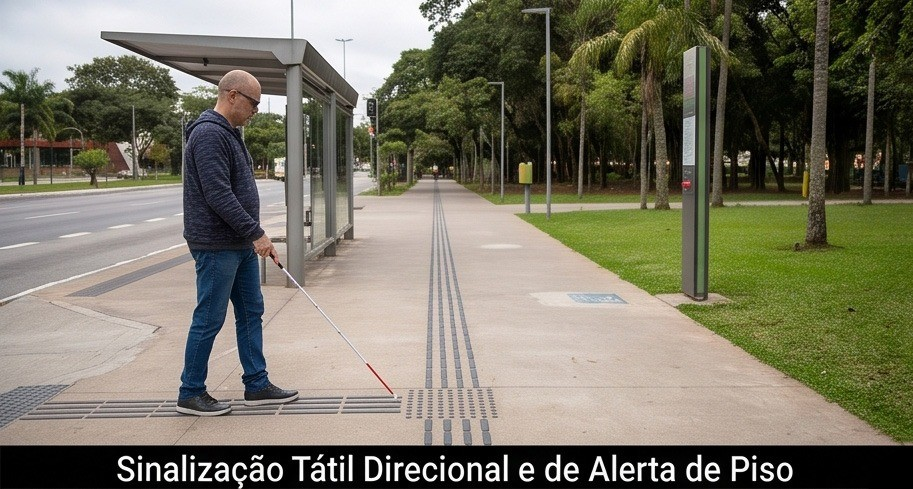
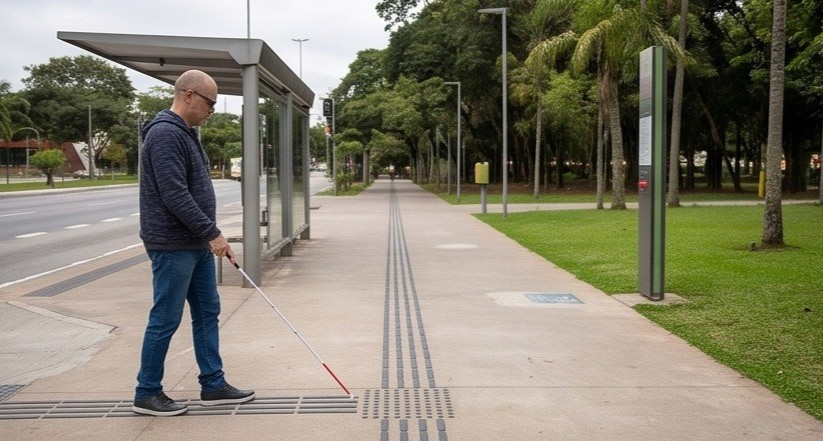
Alteração da section 02 da pagina Mobiliario Urbano de Sinalização acessível para Placas de sinalização e a incerção de um botão que direciona para o conteúdo de piso tátil na página de Sinalização

diff --git a/mobiliarios.html b/mobiliarios.html
@@ -264,7 +264,7 @@
                     <div class="mobiliario-imagem">
                         <img
                             src="assets/sinalizacao-acessivel.jpeg"
-                            alt="Placa direcional com informações em Braille para auxiliar na orientação de pessoas com deficiência visual."
+                            alt="Placa de sinalização acessível com informações direcionais e escrita em Braille."
                             loading="lazy"
                         >
                     </div>
@@ -273,43 +273,59 @@
 
                         <span class="mobiliario-numero">02</span>
 
-                        <h3>Sinalização acessível</h3>
+                        <h3>Placas de sinalização acessíveis</h3>
 
                         <p>
-                            A falta de sinalização acessível dificulta a
-                            orientação de pessoas cegas ou com baixa visão.
-                            A combinação de placas visuais e táteis,
-                            informações em Braille e pisos táteis auxilia
-                            na identificação dos ambientes e na circulação.
+                            As placas de sinalização acessível auxiliam na
+                            orientação e identificação dos espaços públicos,
+                            permitindo que diferentes pessoas encontrem
+                            informações importantes para sua circulação
+                            e utilização da praça. Para pessoas com deficiência
+                            visual, recursos como informações em Braille
+                            e sinalização tátil contribuem para uma orientação
+                            mais autônoma.
                         </p>
 
                         <h4>Critérios de acessibilidade</h4>
 
                         <ul>
                             <li>
-                                Informações claras, legíveis e perceptíveis.
+                                Informações claras, objetivas e de fácil compreensão.
                             </li>
 
                             <li>
-                                Contraste adequado entre os caracteres
-                                e o fundo.
+                                Contraste adequado entre os caracteres e o fundo,
+                                facilitando a leitura por pessoas com baixa visão.
                             </li>
 
                             <li>
-                                Informações em Braille e sinalização tátil
-                                em relevo, quando exigidas.
+                                Utilização de caracteres legíveis e com tamanho
+                                adequado à distância de leitura.
                             </li>
 
                             <li>
-                                Piso tátil direcional para orientação
-                                do deslocamento.
+                                Disponibilização de informações em Braille
+                                e caracteres em relevo, quando aplicável.
                             </li>
 
                             <li>
-                                Piso tátil de alerta para indicar locais
-                                que exigem maior atenção.
+                                Instalação em locais acessíveis e com altura
+                                e posicionamento adequados para a consulta.
+                            </li>
+
+                            <li>
+                                Utilização de piso tátil direcional para orientar
+                                o deslocamento até pontos de informação e
+                                sinalização.
                             </li>
                         </ul>
+
+                        <a
+                            href="sinalizacao.html#pisos-tateis"
+                            class="botao botao-secundario mobiliario-saiba-mais"
+                        >
+                            Saiba mais sobre pisos táteis
+                        </a>
 
                         <span class="mobiliario-referencia">
                             Referências: ABNT NBR 9050:2020, seção 5,
@@ -319,6 +335,8 @@
                     </div>
 
                 </article>
+
+
 
 
                 <!-- MESAS -->

diff --git a/css/mobiliarios.css b/css/mobiliarios.css
@@ -546,6 +546,32 @@
 }
 
 
+
+/* ==========================================
+   LINK PARA A PÁGINA DE PISOS TÁTEIS
+========================================== */
+
+.mobiliario-saiba-mais {
+    display: inline-flex;
+    align-items: center;
+    justify-content: center;
+
+    margin: 0 0 1.5rem;
+
+    font-size: 0.85rem;
+    text-align: center;
+}
+
+.mobiliario-saiba-mais:hover {
+    color: var(--cor-primaria);
+}
+
+.mobiliario-saiba-mais:focus-visible {
+    outline: 3px solid var(--cor-primaria);
+    outline-offset: 4px;
+}
+
+
 /* ==========================================
    RESPONSIVIDADE - TABLETS
 ========================================== */

diff --git a/sinalizacao.html b/sinalizacao.html
@@ -168,7 +168,7 @@
 
             <!-- 02 - PISO TÁTIL -->
 
-            <article class="sinalizacao-card">
+            <article class="sinalizacao-card" id="pisos-tateis">
 
                 <img
                     src="./assets/images/exemplo-02-piso-tatil.jpg"
